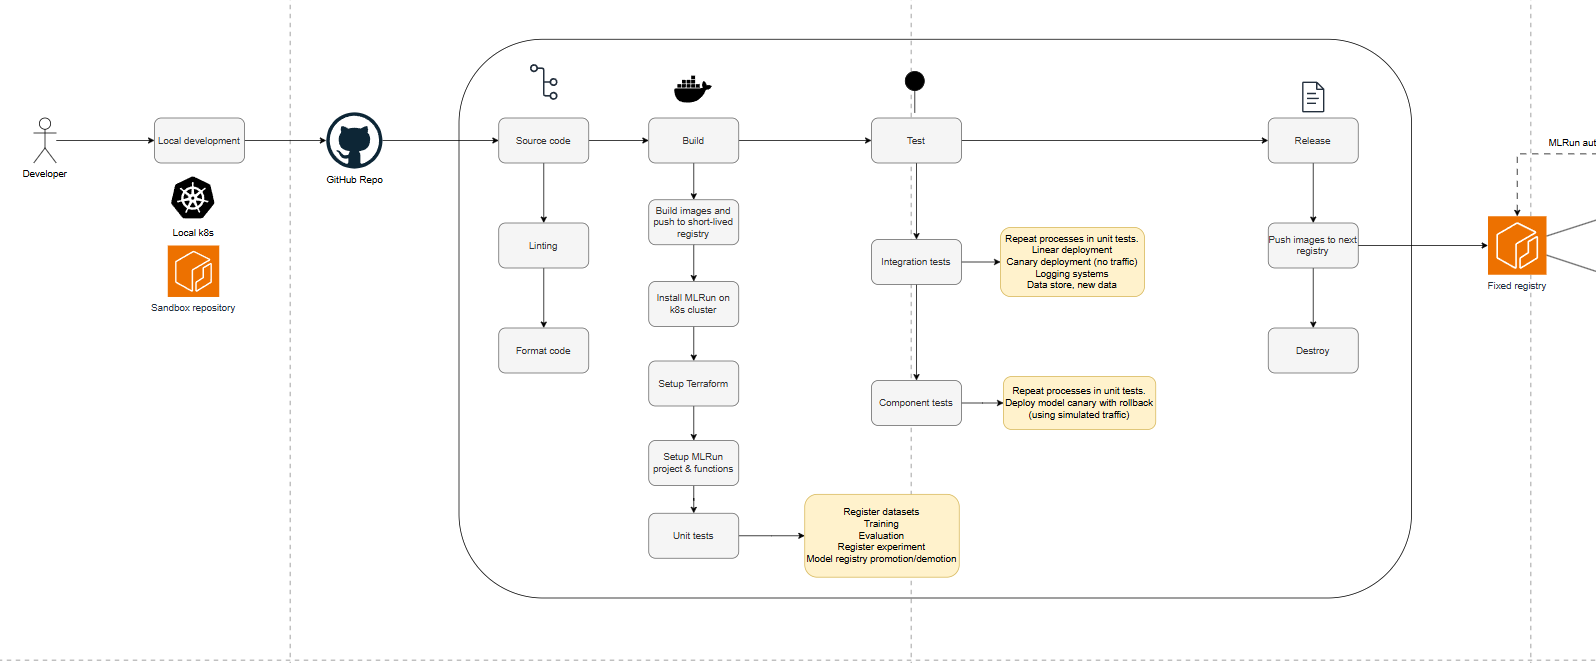
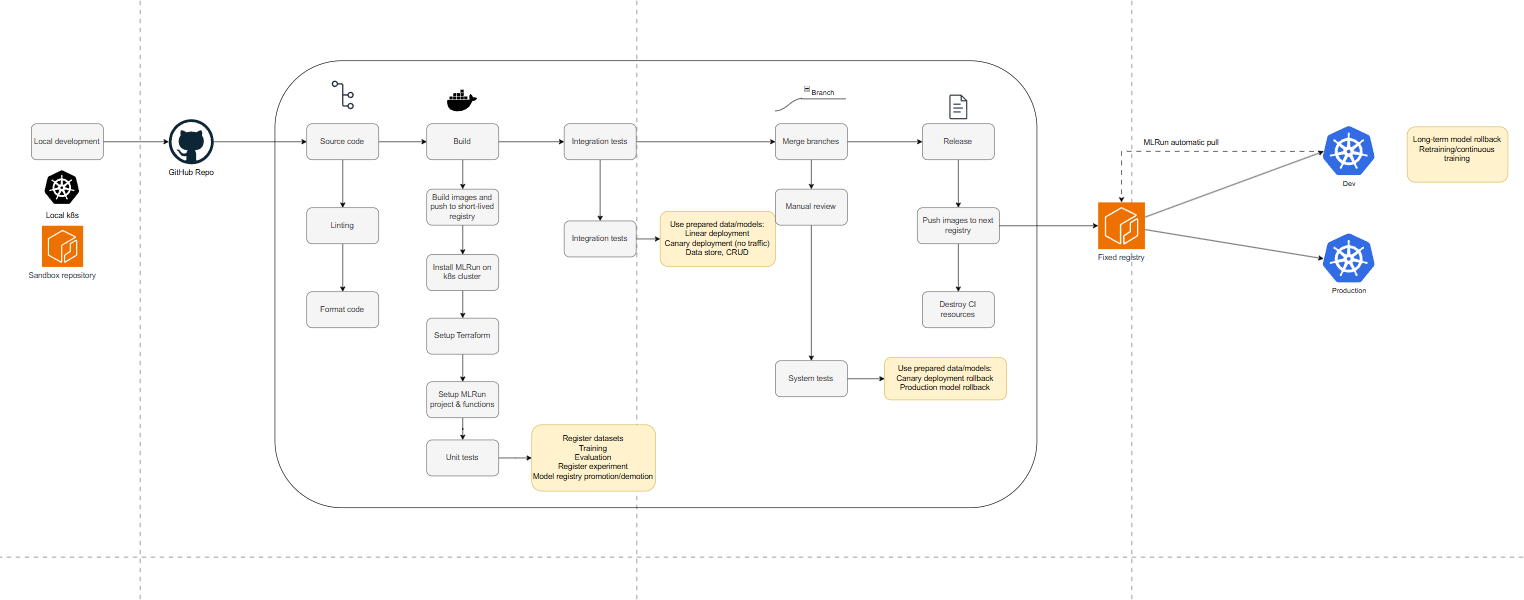
Updated the build process during CI

diff --git a/setup/build_functions.py b/setup/build_functions.py
@@ -1,11 +1,10 @@
 """
-A LARGE PART OF THIS BUILD FUNCTION HAS BEEN COMMENTED OUT BECAUSE EACH FUNCTION BUILD TAKES 5-10 MINUTES CAUSING THE BUILD TO TAKE UP TO 45 MINUTES
+A LARGE PART OF THIS BUILD SCRIPT HAS BEEN COMMENTED OUT BECAUSE EACH FUNCTION BUILD TAKES 5-10 MINUTES CAUSING THE BUILD TO TAKE UP TO 45 MINUTES
 
-Builds MLRun function images
-This file is run after the MLRun project has been created, and the function code has been committed to github.
-Run this file from main directory
-
-THis file is only meant to run in CI/CD environment. Variables should be loaded before hand in a the job or in an .env file (local test)
+-Builds MLRun function images
+-This file is run after the MLRun project has been created, and the function code has been committed to github.
+-Run this file from main directory
+-This file is only meant to run in CI/CD environment. Variables should be loaded before hand in a the job or in an .env file (local test)
 """
 
 import mlrun
@@ -19,6 +18,7 @@ MLRUN_AWS_ROLE_ARN = os.environ["MLRUN_AWS_ROLE_ARN"]
 HF_TOKEN = os.environ["HF_TOKEN"]
 # in CI/CD this will be a unique variable from the github actions run. local dev uses "latest"
 IMAGE_TAG = os.environ["IMAGE_TAG"]
+FEATURE_BRANCH = os.environ["FEATURE_BRANCH"]
 
 if os.environ.get("MLRUN_DBPATH"):
     print("Detected K8s environment")
@@ -36,7 +36,8 @@ else:
     project = mlrun.load_project(name="legalcontractextractor", context="../")
 
 # Configuration for the build
-url = "git://github.com/jerrold110/Finetune-legal-llm-mlops.git#refs/heads/main"
+# Source branch for build
+url = f"git://github.com/jerrold110/Finetune-legal-llm-mlops.git#refs/heads/{FEATURE_BRANCH}"
 project.set_source(
     source=url,
     pull_at_runtime=False,

diff --git a/README.md b/README.md
@@ -50,11 +50,13 @@ The deployment process of MLRun job functions (k8s batch jobs) are unique in tha
 - https://docs.mlrun.org/en/stable/concepts/functions-overview.html
 
 ![MLRun overview](diagram/cicd3.png)
+![MLRun overview](diagram/cicd4.png)
 
 The CI/CD process that builds, tests, commits to version control, and deploys this platform that follows the recommended MLRun approach for production is like so:
 
 ![MLRun overview](diagram/cicd1.png)
 ![MLRun overview](diagram/cicd2.png)
+
 
 ### Mono-repo vs Multi-repo
 In this MLOps platform project, there are multiple pipelines where similarities could be drawn between it and a platform with multiple microservices. I am using a mono-repo approach in this project, which is not a good approach in general because every single change no matter how small requires building, testing, merging, and deploying all the pipelines in this platform.
